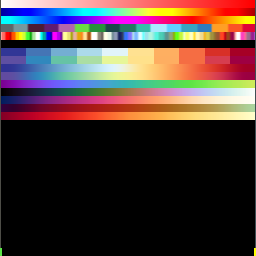
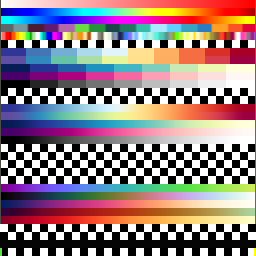
TVB-1656 Add more color brewer schemes. Document the palette source file. Improve color scheme naming and ui.
git-svn-id: https://repo.thevirtualbrain.org/svn/tvb/trunk/framework_tvb@7059 1c0e02f0-7929-43c0-8fb3-3293bf43b0d1

diff --git a/tvb/interfaces/web/static/colorScheme/js/colorSchemeComponent.js b/tvb/interfaces/web/static/colorScheme/js/colorSchemeComponent.js
@@ -16,15 +16,15 @@ var ColSchDarkTheme = {
     connectivityStepPlot : {
         lineColor: [0.1, 0.1, 0.2],
         noValueColor: [0.0, 0.0, 0.0],
-        backgroundColor: [0.05, 0.05, 0.05, 1.0],
+        backgroundColor: [0.1, 0.1, 0.1, 1.0],
         outlineColor: [0.3, 0.3, 0.3],
         selectedOutlineColor: [0.2, 0.2, 0.8]
     },
     connectivityPlot : {
-        backgroundColor: [0.05, 0.05, 0.05, 1.0]
+        backgroundColor: [0.1, 0.1, 0.1, 1.0]
     },
     surfaceViewer : {
-        backgroundColor: [0.05, 0.05, 0.05, 1.0]
+        backgroundColor: [0.1, 0.1, 0.1, 1.0]
         //, boundaryLineColor
         //, navigatorColor
     }
@@ -73,17 +73,25 @@ var ColSchTransparentTheme = {
  */
 var _ColSchemesInfo = {
     linear:  { theme: ColSchDarkTheme, _data_idx: 0},
-    TVB:     { theme: ColSchDarkTheme, _data_idx: 3},
     rainbow: { theme: ColSchDarkTheme, _data_idx: 1},
     hotcold: { theme: ColSchDarkTheme, _data_idx: 2},
+    TVB:     { theme: ColSchDarkTheme, _data_idx: 3},
     sparse:  { theme: ColSchDarkTheme, _data_idx: 4},
-    lightHotcold:   { theme: ColSchLightTheme, _data_idx: 2},
-    lightTVB:       { theme: ColSchLightTheme, _data_idx: 3},
-    transparentHotCold: { theme: ColSchTransparentTheme, _data_idx: 2},
-    marteli: { theme: ColSchDarkTheme, _data_idx: 10},
-    cubehelix: { theme: ColSchDarkTheme, _data_idx: 11},
-    termal: { theme: ColSchDarkTheme, _data_idx: 12},
-    brewer1: { theme: ColSchDarkTheme, _data_idx: 9}
+
+    RdYlBu      : { theme: ColSchDarkTheme, _data_idx: 13},
+    Spectral    : { theme: ColSchDarkTheme, _data_idx: 14},
+    YlGnBu      : { theme: ColSchDarkTheme, _data_idx: 15},
+    RdPu        : { theme: ColSchDarkTheme, _data_idx: 16},
+    Grays       : { theme: ColSchDarkTheme, _data_idx: 17},
+    transparentRdYlBu: { theme: ColSchTransparentTheme, _data_idx: 13},
+
+    matteo: { theme: ColSchDarkTheme, _data_idx: 23},
+    cubehelix: { theme: ColSchDarkTheme, _data_idx: 24},
+    termal: { theme: ColSchDarkTheme, _data_idx: 25},
+
+    transparentJet: { theme: ColSchTransparentTheme, _data_idx: 1},
+    transparentTVB: { theme: ColSchTransparentTheme, _data_idx: 3},
+    transparentTermal: { theme: ColSchTransparentTheme, _data_idx: 25}
 };
 
 // Add texture v coordinates to _ColSchemesInfo based on the _data_idx
@@ -95,7 +103,7 @@ var _ColSchemesInfo = {
         // band indices are the same as the indices in the _colorSchemeColors
         var scheme = _ColSchemesInfo[n];
         scheme.tex_v = (scheme._data_idx + 0.5) * bandHeight/textureSize;
-        scheme.muted_tex_v = 0.5;
+        scheme.muted_tex_v = (30 + 0.5)* bandHeight/textureSize;
         scheme.measurePoints_tex_v = 1.0;
     }
 })();

diff --git a/tvb/interfaces/web/templates/genshi/flow/color_scheme.html b/tvb/interfaces/web/templates/genshi/flow/color_scheme.html
@@ -10,17 +10,28 @@
     </dt>
     <dd>
         <select id="setColorSchemeSelId" onchange="ColSch_setColorScheme(this.options[this.selectedIndex].value, true);" tabindex="1">
-            <option value="linear" selected="selected">Linear gradient</option>
-            <option value="rainbow">Rainbow</option>
-            <option value="hotcold">Hot-Cold</option>
+            <option disabled="disabled">--- TVB ---</option>
+            <option value="linear" selected="selected">White-Red</option>
+            <option value="rainbow">Jet</option>
             <option value="TVB">TVB</option>
-            <option value="sparse">Sparse colors</option>
-            <option value="lightHotcold">Light Hot-Cold</option>
-            <option value="lightTVB">Light TVB</option>
-            <option value="marteli">Marteli</option>
-            <option value="cubehelix">CubeHelix</option>
+            <option value="sparse">Sparse</option>
+
+            <option disabled="disabled">--- ColorBrewer ---</option>
+            <option value="RdYlBu">RdYlBu</option>
+            <option value="Spectral">Spectral</option>
+            <option value="YlGnBu">YlGnBu</option>
+            <option value="RdPu">RdPu</option>
+            <option value="Grays">Grays</option>
+
+            <option disabled="disabled">--- Perceptual ---</option>
+            <option value="matteo">Matteo</option>
             <option value="termal">Termal</option>
-            <option value="brewer1">Brewer</option>
+            <option value="cubehelix">CubeHelix</option>
+
+            <option disabled="disabled">--- Transparent background ---</option>
+            <option value="transparentJet">Jet</option>
+            <option value="transparentTVB">TVB</option>
+            <option value="transparentTermal">Termal</option>
         </select>
         <fieldset>
             <dl>

diff --git a/tvb/interfaces/web/static/style/subsection_brain.css b/tvb/interfaces/web/static/style/subsection_brain.css
@@ -79,7 +79,7 @@ width: 99%;
 }
 
 #s-brain .monitor.slave {
-background: black;
+background: rgb(25, 25, 25);
 float: right;
 height: 192px;
 margin-bottom: 10px;
